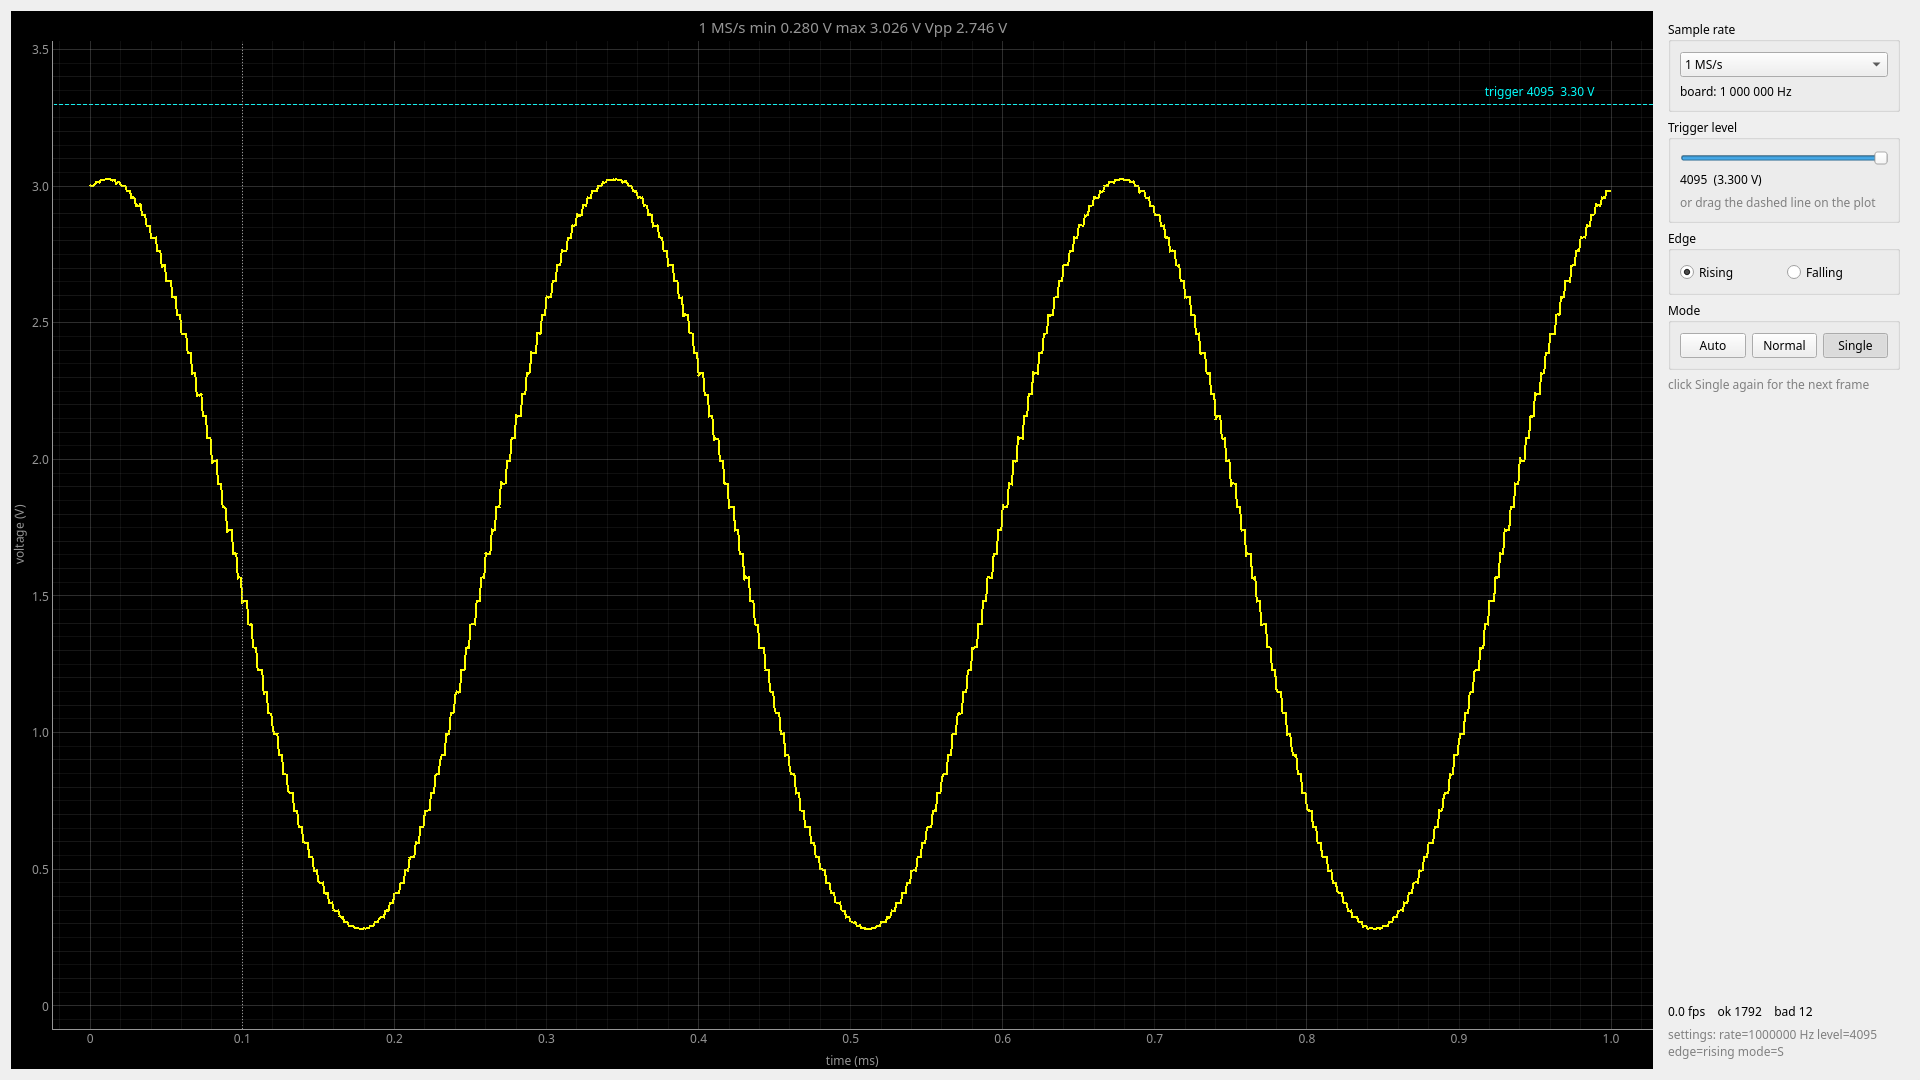
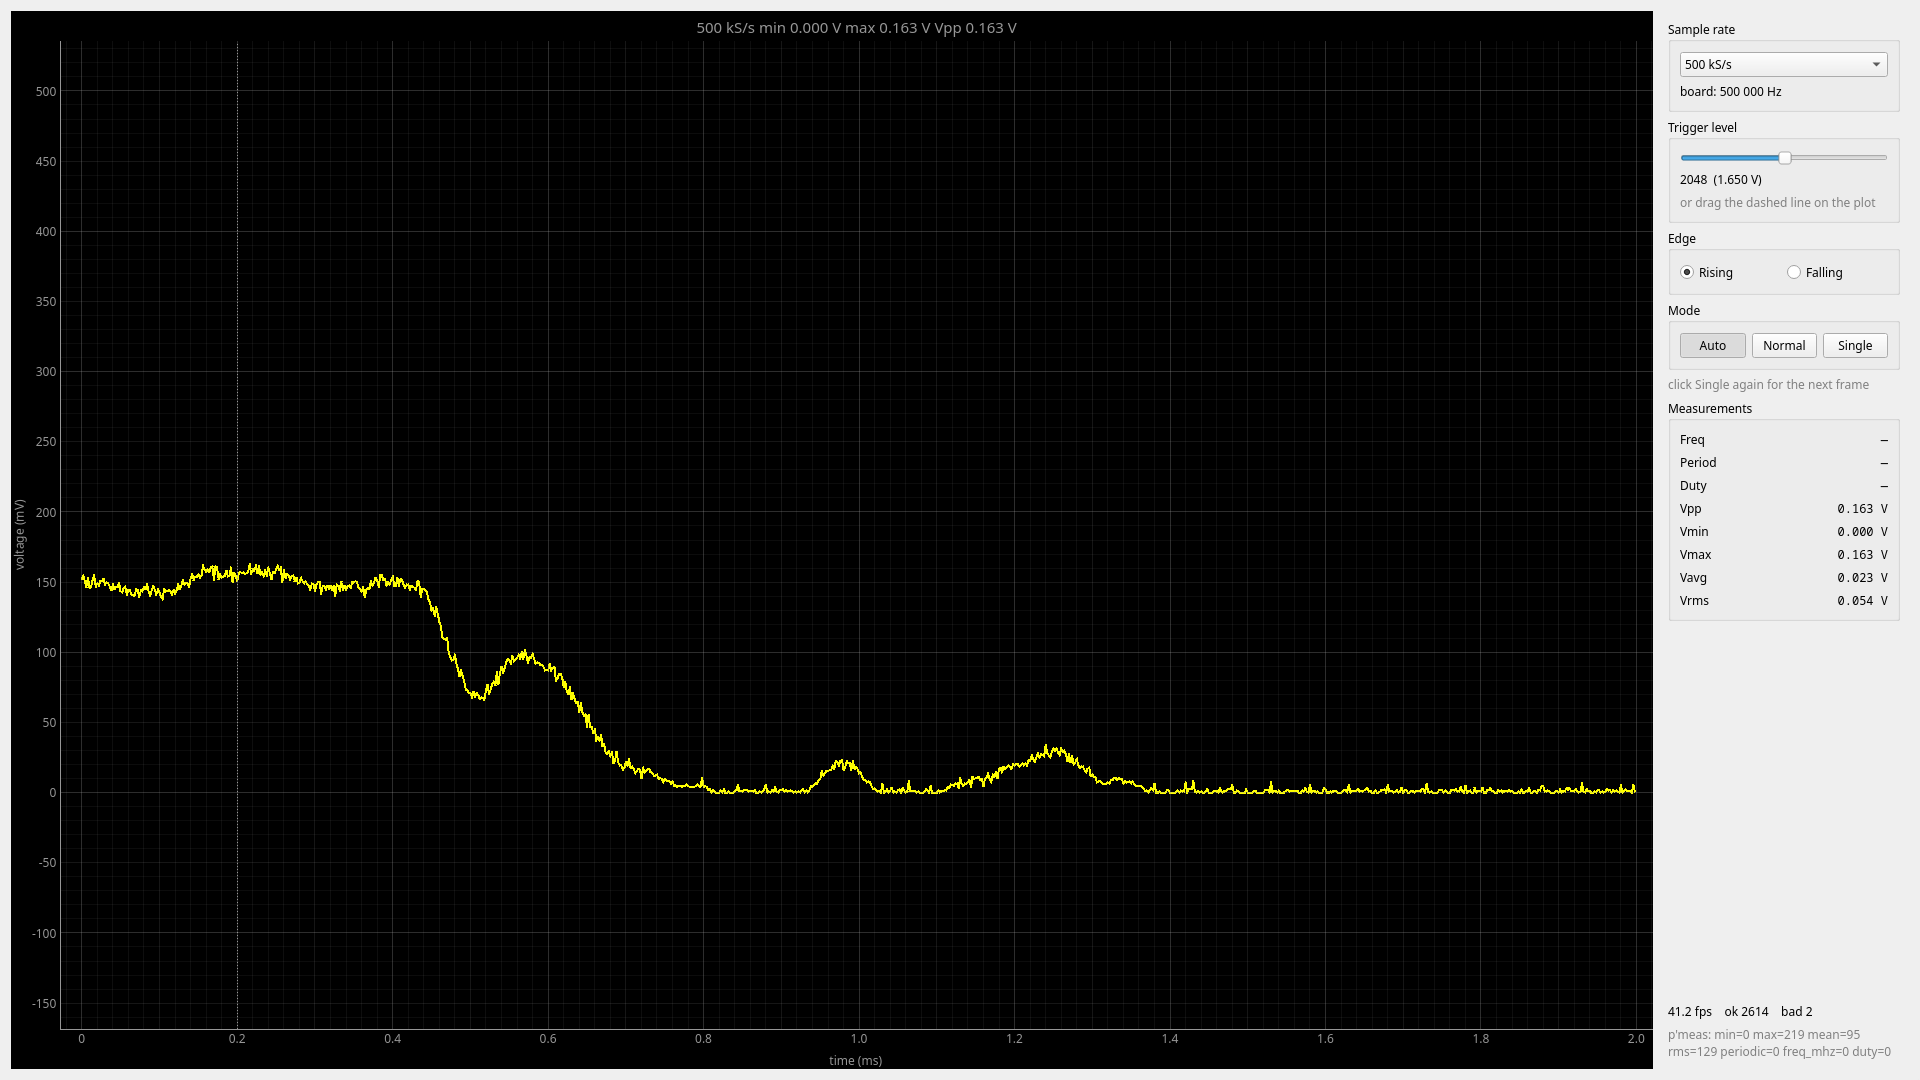
Add OPAMP support: implement driver, board configuration, initialization, and enable HAL OPAMP module.

diff --git a/src/drivers/opamp.cpp b/src/drivers/opamp.cpp
@@ -1,0 +1,35 @@
+#include "drivers/opamp.hpp"
+#include "bsp/board.hpp"
+#include "bsp/bsp.hpp"
+#include "stm32f3xx_hal.h"
+namespace {
+OPAMP_HandleTypeDef hopamp;
+}
+
+namespace drivers::opamp {
+void init() {
+  __HAL_RCC_GPIOA_CLK_ENABLE();
+
+  GPIO_InitTypeDef gpio{};
+  gpio.Pin = bsp::board::OPAMP_OUT | bsp::board::OPAMP_IN;
+  gpio.Mode = GPIO_MODE_ANALOG;
+  gpio.Pull = GPIO_NOPULL;
+  HAL_GPIO_Init(bsp::board::OPAMP_PORT, &gpio);
+
+  hopamp.Instance = bsp::board::OPAMP_INSTANCE;
+  hopamp.Init.Mode = OPAMP_FOLLOWER_MODE;
+  hopamp.Init.NonInvertingInput = OPAMP_NONINVERTINGINPUT_IO0;
+  hopamp.Init.TimerControlledMuxmode = OPAMP_TIMERCONTROLLEDMUXMODE_DISABLE;
+  hopamp.Init.UserTrimming = OPAMP_TRIMMING_FACTORY;
+
+  if (HAL_OPAMP_Init(&hopamp) != HAL_OK) {
+    bsp::error_handler();
+  }
+  if (HAL_OPAMP_SelfCalibrate(&hopamp) != HAL_OK) {
+    bsp::error_handler();
+  }
+  if (HAL_OPAMP_Start(&hopamp) != HAL_OK) {
+    bsp::error_handler();
+  }
+}
+} // namespace drivers::opamp

diff --git a/src/bsp/board.hpp b/src/bsp/board.hpp
@@ -22,4 +22,8 @@ inline DAC_TypeDef *const DAC_INSTANCE = DAC1;
 inline constexpr uint16_t DAC_CHANNEL = DAC_CHANNEL_1;
 inline TIM_TypeDef *const ADC_TIMER = TIM6;
 inline TIM_TypeDef *const DAC_TIMER = TIM7;
+inline GPIO_TypeDef *const OPAMP_PORT = GPIOA;
+inline OPAMP_TypeDef *const OPAMP_INSTANCE = OPAMP2;
+inline constexpr uint16_t OPAMP_IN = GPIO_PIN_7;
+inline constexpr uint16_t OPAMP_OUT = GPIO_PIN_6;
 } // namespace bsp::board

diff --git a/src/main.cpp b/src/main.cpp
@@ -9,6 +9,7 @@
 #include "drivers/dac.hpp"
 #include "drivers/tim.hpp"
 #include "drivers/uart.hpp"
+#include "drivers/opamp.hpp"
 #include <cinttypes>
 #include <cstdio>
 namespace {
@@ -42,6 +43,7 @@ int main() {
   app::commands::Settings settings;
   app::commands::Parser parser{settings};
   bsp::init();
+  drivers::opamp::init();
   drivers::uart::init(UART_BAUDRATE);
   drivers::adc::init();
   drivers::dac::init();

diff --git a/src/stm32f3xx_hal_conf.h b/src/stm32f3xx_hal_conf.h
@@ -53,7 +53,7 @@
 //#define HAL_I2S_MODULE_ENABLED
 //#define HAL_IRDA_MODULE_ENABLED
 //#define HAL_IWDG_MODULE_ENABLED
-//#define HAL_OPAMP_MODULE_ENABLED
+#define HAL_OPAMP_MODULE_ENABLED
 //#define HAL_PCD_MODULE_ENABLED
 #define HAL_PWR_MODULE_ENABLED
 #define HAL_RCC_MODULE_ENABLED

diff --git a/src/drivers/opamp.hpp b/src/drivers/opamp.hpp
@@ -1,0 +1,5 @@
+#pragma once
+
+namespace drivers::opamp {
+void init();
+}
